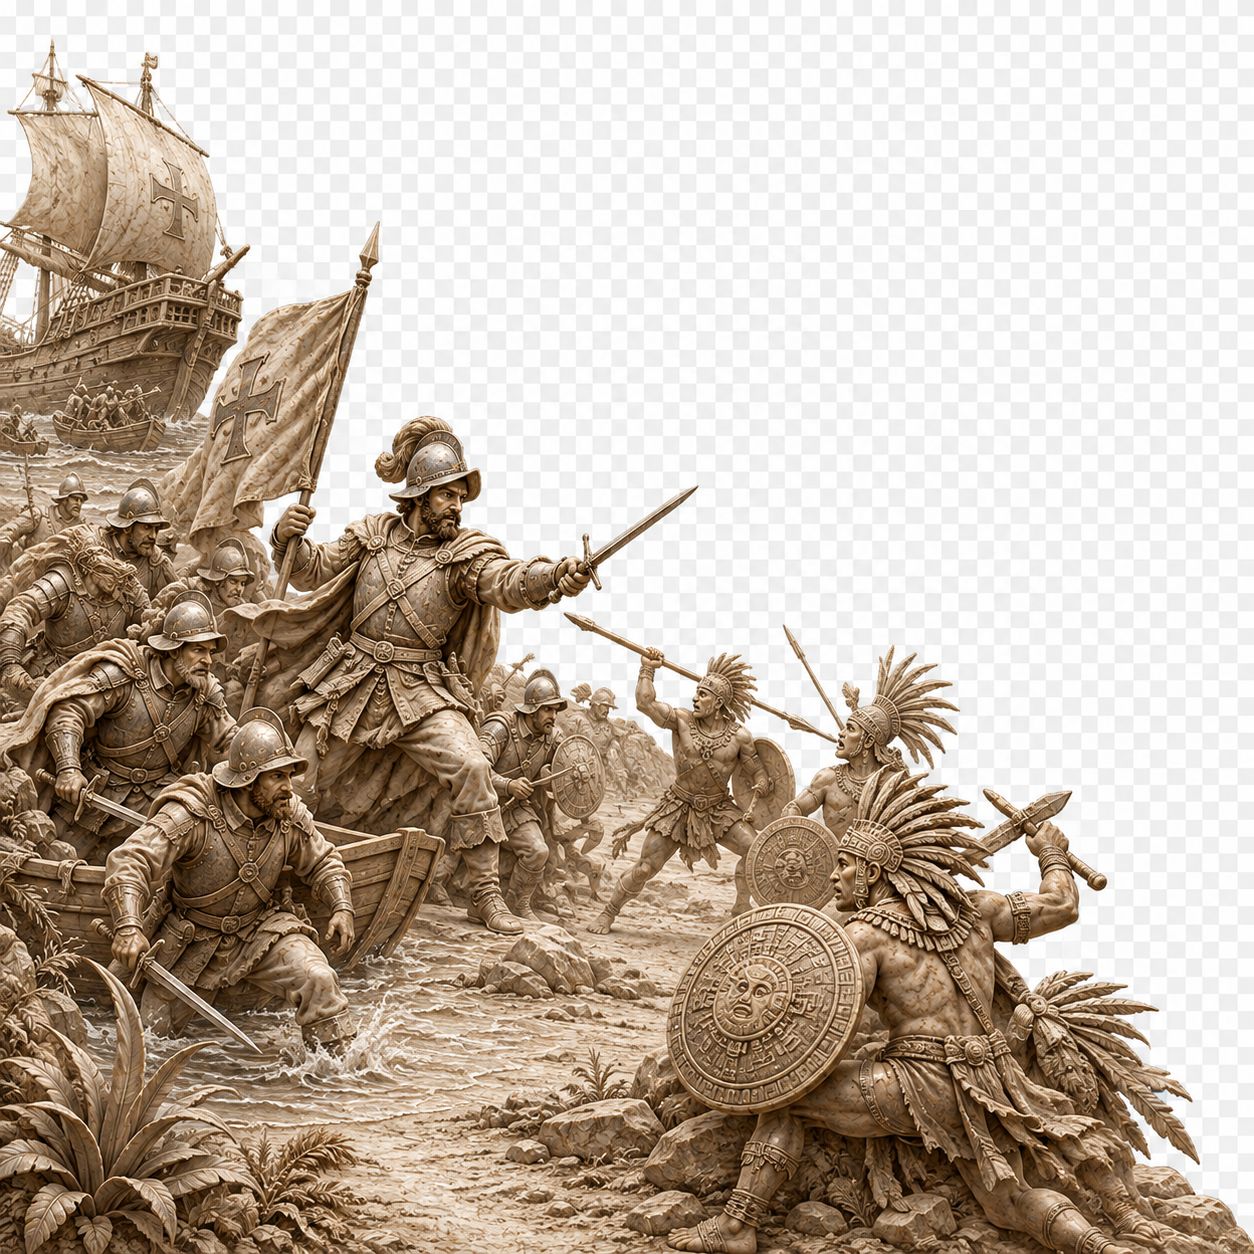
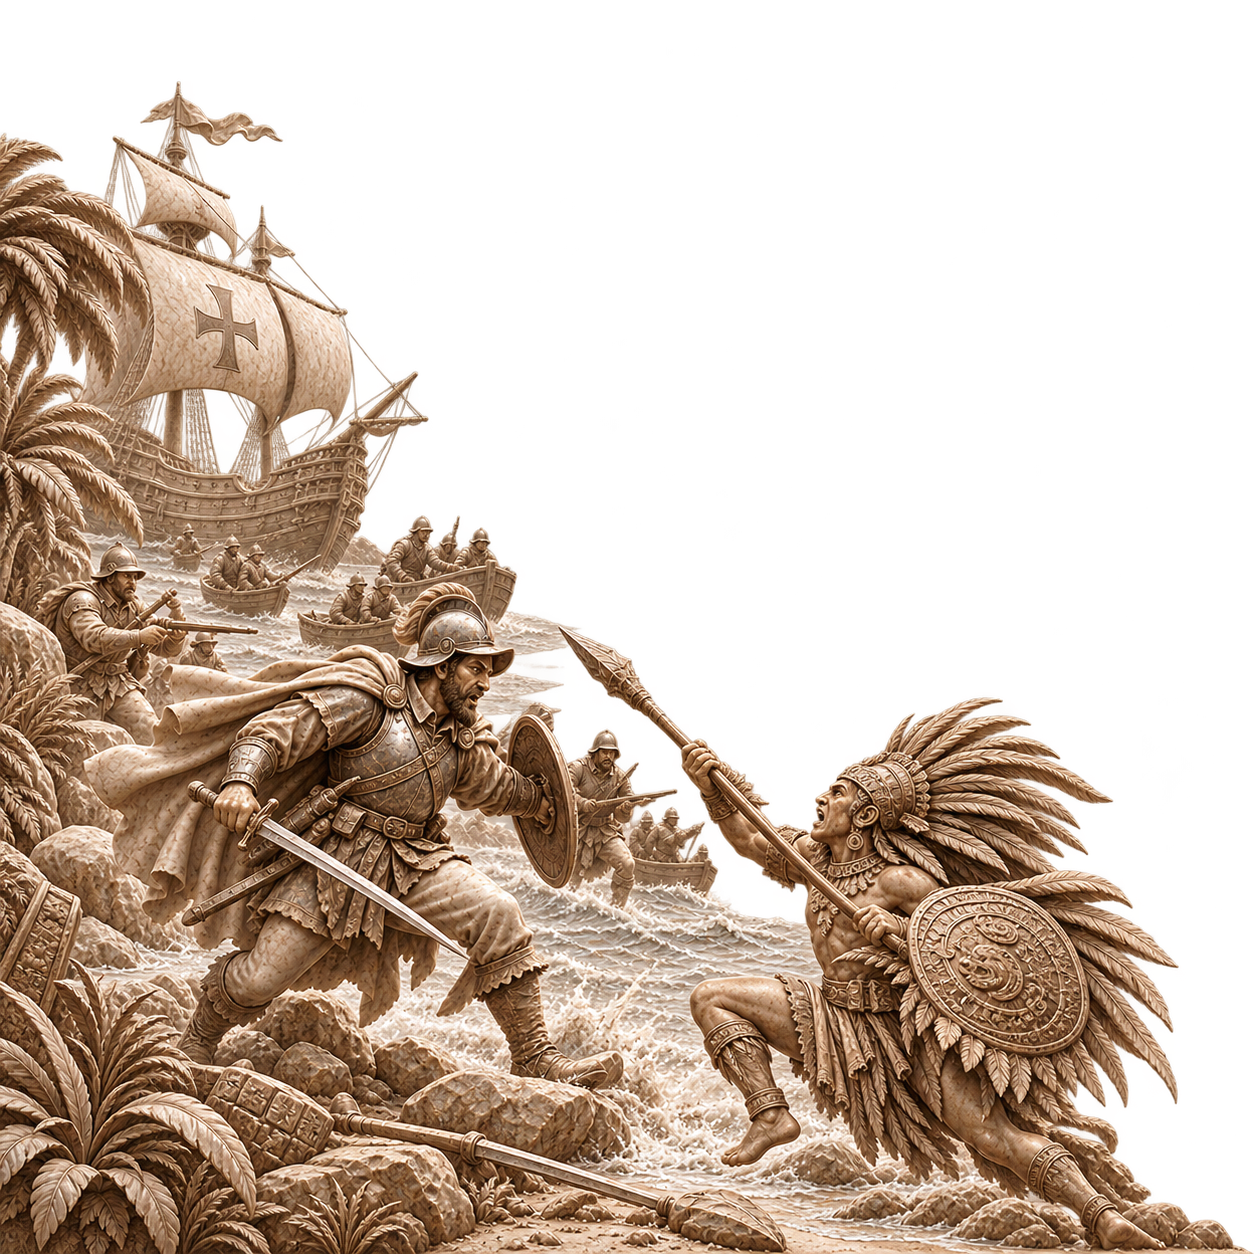
Main menu: bottom corners restored with re-exported transparent PNGs

diff --git a/src/ui/MainMenu.ts b/src/ui/MainMenu.ts
@@ -53,11 +53,13 @@ export class MainMenu {
     this.overlay = overlay;
 
     // ---- the four era artworks, one per corner, fading toward the center.
-    // Owner (2026-08-30): only the TOP corners carry artwork — the bottom two
-    // are removed (their PNGs stay in public/menu for a possible return).
+    // All four corners carry artwork again (owner re-exported the bottom two
+    // with real transparency, 2026-09-02).
     const corners: { file: string; pos: string; obj: string }[] = [
       { file: 'top-left.png', pos: 'left:0;top:0;', obj: 'left top' },
       { file: 'top-right.png', pos: 'right:0;top:0;', obj: 'right top' },
+      { file: 'bottom-left.png', pos: 'left:0;bottom:0;', obj: 'left bottom' },
+      { file: 'bottom-right.png', pos: 'right:0;bottom:0;', obj: 'right bottom' },
     ];
     for (const c of corners) {
       const img = document.createElement('img');

diff --git a/docs/CONVERSATION_LOG.md b/docs/CONVERSATION_LOG.md
@@ -1166,4 +1166,9 @@ the owner adjusted the PNGs' own transparency to carry the blend; (2) RATIONAL A
 60% of its size, columns shrunk to match (96→58); (3) Aristo 20% smaller; (4) corner images
 first +20%, then −10% of that; (5) **both bottom corner images removed** — only the top corners
 carry art now (bottom PNGs stay in public/menu for a possible return). Screenshot-verified;
-build passes; pushed.
+build passes; pushed. Later same session: columns 1.5× (58→87).
+
+**Follow-up (2026-09-02) — bottom corners return:** owner delivered re-exported bottom-left
+(conquistadors vs Aztecs) and bottom-right (WW1) PNGs with real transparency; copied to
+public/menu and both bottom corners restored in MainMenu.ts at the same sizing as the top ones.
+All four corners now blend cleanly with no masks. Screenshot-verified; build passes; pushed.
